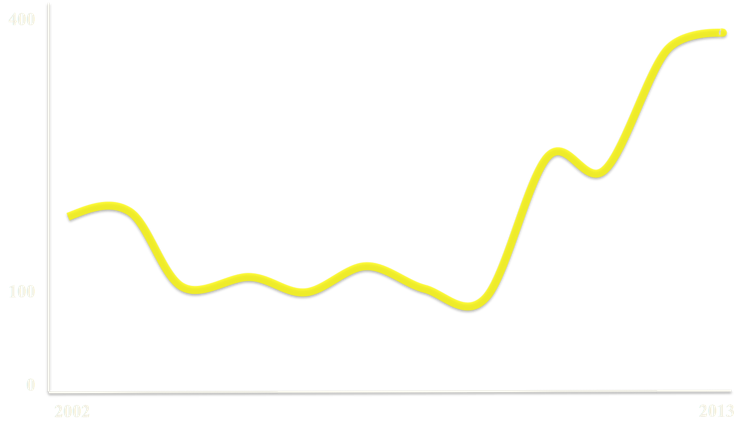
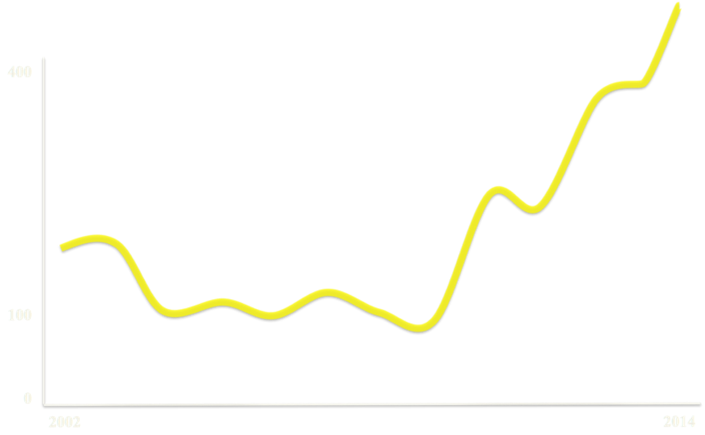
Uppdateringar inför FTK-seminarie

Changed region(s): [[0.0624, 0.0, 0.9986, 0.7647], [0.0624, 0.9176, 0.9986, 0.9482], [0.0312, 0.6729, 0.0624, 0.7035]]

diff --git a/index.html b/index.html
@@ -42,7 +42,7 @@ URL: https://code.google.com/p/io-2012-slides
     <article class="flexbox vcenter">
       <span><img src="images/lnu-logo.png"></span>
     </article>
-    <footer>Malmö 2014-04-04</footer>
+    <footer>Pedagogisk seminarieserie, FTK HT2014</footer>
   </slide>
 
   <slide class="title-slide segue nobackground">
@@ -63,12 +63,14 @@ URL: https://code.google.com/p/io-2012-slides
     <footer class="source black right">Foto: Liv Ravnböl</footer>
   </slide>
 
-    <slide>
-      <img style="display:block;margin:auto" height="100%" src="images/ftk.png" />
-    </slide>
-    <slide>
-      <img style="display:block;margin:auto" height="100%" src="images/ftk_programs.png" />
-    </slide>
+  <slide class="fill nobackground" style="background-image: url(images/oerstockholm/wp.jpg)">
+    <hgroup class="box-white">
+      <h2 class="dark">Webbprogrammeare 120HP</h2>
+      <h3 class="dark">campus/distans sedan 2002</h3>
+    </hgroup>
+    <footer class="source black right">Foto: LNU</footer>
+  </slide>
+
   <!-- Vägen hit -->
   <slide class="fill nobackground" style="background-image: url(images/oerstockholm/road.jpg)">
     <hgroup>
@@ -92,6 +94,32 @@ URL: https://code.google.com/p/io-2012-slides
       </ul>
     </aside> 
   </slide>
+
+  <slide class="fill nobackground" style="background-image: url(images/oerstockholm/moodle.png);">
+    
+  </slide>
+  
+  <slide class="fill nobackground" style="background-image: url(images/oerstockholm/closed.jpg)">
+    <hgroup class="box-white right">
+      <h2 class="dark">Stängt för studenter</h2>
+      <h2 class="dark">Stängt för kollegor</h2>
+    </hgroup>
+    <footer class="source black right">Foto: LNU</footer>
+  </slide>
+
+  <slide class="fill nobackground" style="background-image: url(images/oerstockholm/open.png);">
+    <img src="images/oerstockholm/johanshort.gif" width="50%"/>
+  </slide>
+
+
+  <slide class="fill nobackground bottom" style="background-image: url(images/oerstockholm/no.png)">
+    <hgroup class="box-black">
+      <h2 class="white">"Jaha! Så det är en MOOC?"</h2>
+    </hgroup>
+     <footer class="source dark right">Foto CC By: <a href="https://www.flickr.com/photos/guercio/
+">https://www.flickr.com/photos/guercio/</a></footer>
+  </slide>
+
 
   <slide class="fill nobackground" style="background-image: url(images/oerstockholm/wp1.png);">
      <footer class="source dark box-black"><a href="http://webbprogrammerare.se">webbprogrammerare.se</a> | <a href="http://coursepress.lnu.se">coursepress.lnu.se</a></footer>
@@ -141,9 +169,7 @@ URL: https://code.google.com/p/io-2012-slides
     </article>
   </slide>
 
-  <slide class="fill nobackground" style="background-image: url(images/oerstockholm/moodle.png);">
-    
-  </slide>
+
 
 
   <slide class="nobackground">
@@ -176,7 +202,7 @@ URL: https://code.google.com/p/io-2012-slides
     <article class="flexbox vcenter">
       <img src="images/oerstockholm/chart.png" class="center" alt="Description" title="Description" style="" />
     </article>
-     <footer class="source dark right"><a href="http://www.flickr.com/photos/velkr0/3472576304/sizes/l/">http://www.flickr.com/photos/velkr0/</a></footer>
+     <footer class="source dark right">Foto: LNU</footer>
   </slide>
 
   <slide class="fill nobackground" style="background-image: url(images/oerstockholm/students2.jpg)">
@@ -235,6 +261,15 @@ URL: https://code.google.com/p/io-2012-slides
       </ul>
     </aside>
 
+  </slide>
+
+    <slide class="fill nobackground" style="background-image: url(images/oerstockholm/flight.jpg)">
+    <hgroup class="box-white">
+      <h2 class="dark">Samarbete över gränserna</h2>
+    </hgroup>
+    <footer class="source dark right"><a href="https://www.flickr.com/photos/tvoe/
+">https://www.flickr.com/photos/tvoe/
+</a></footer>
   </slide>
   
   <slide class="fill nobackground" style="background-image: url(images/oerstockholm/fun.jpg)">
